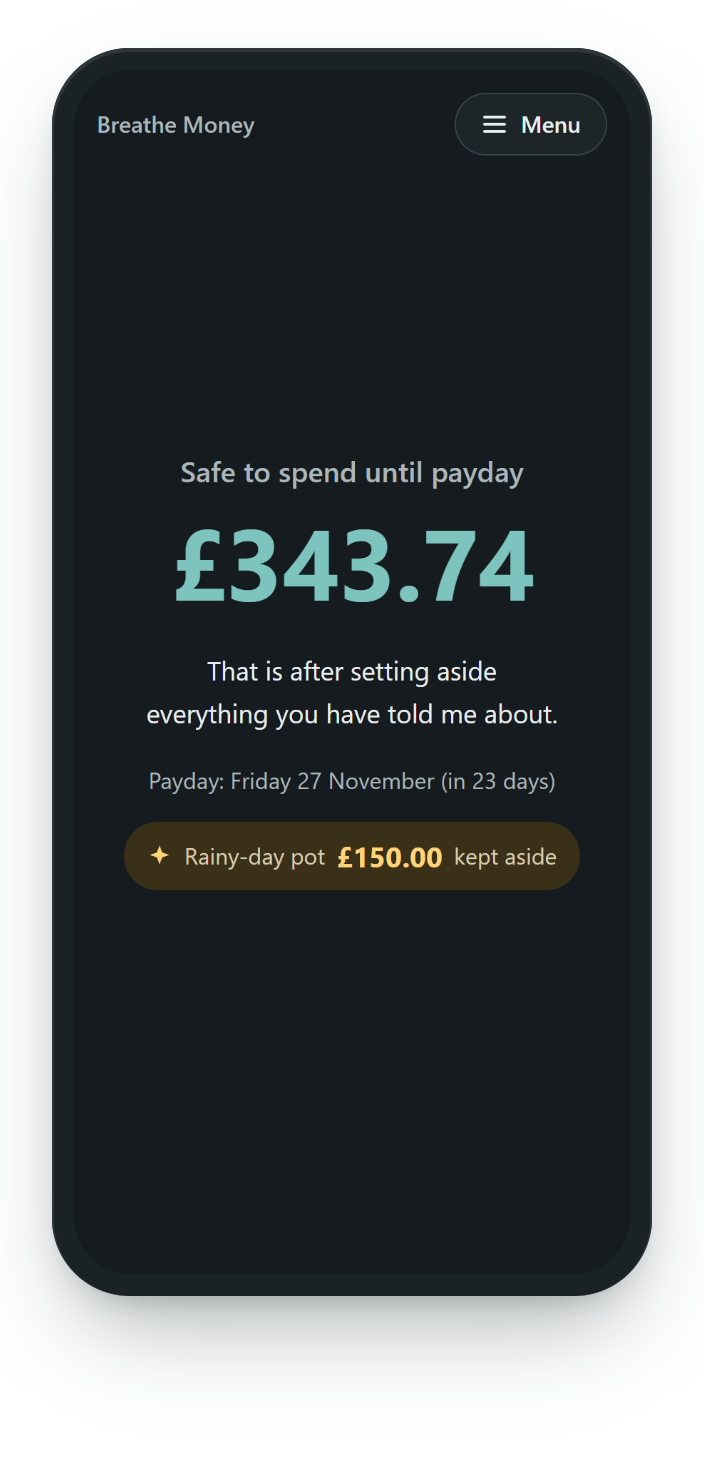
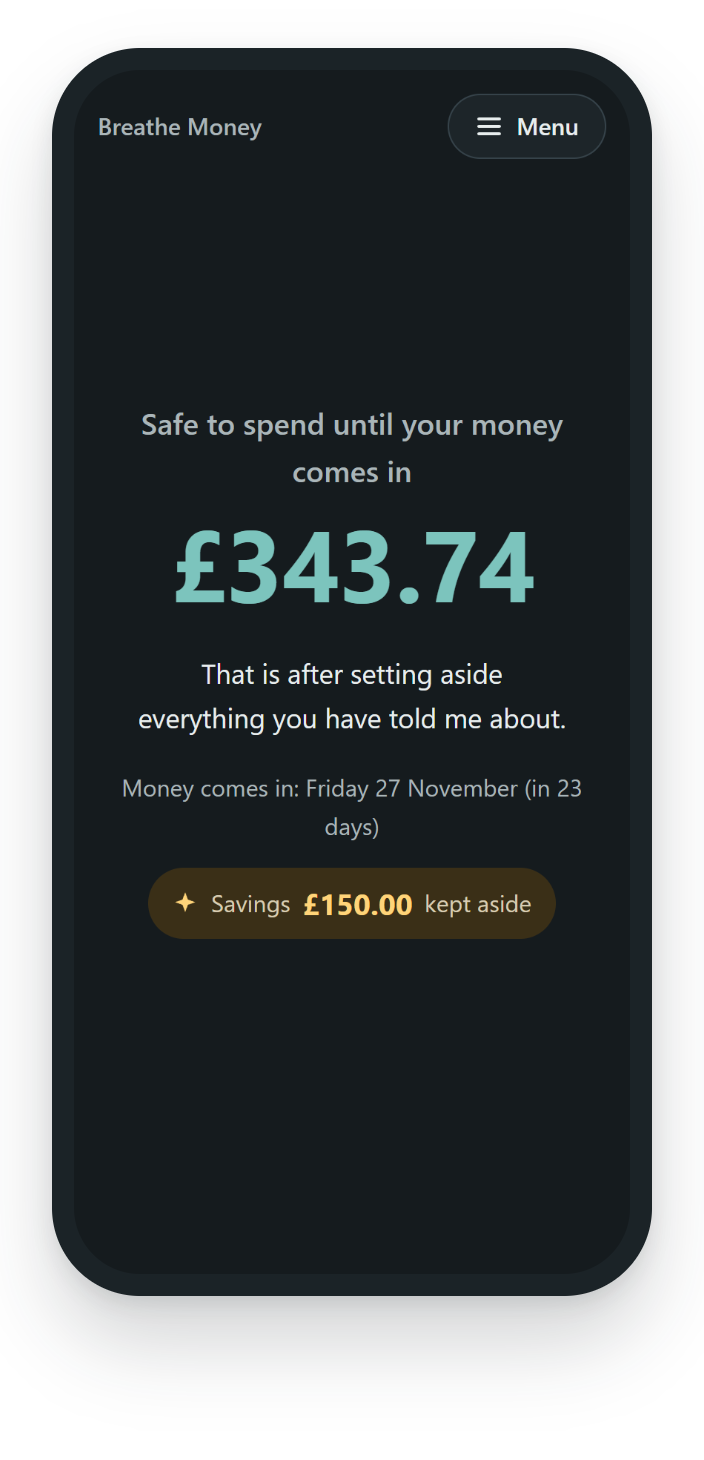
Front page: new screenshots for money coming in and Savings
Retook the banner, the short clip and every screenshot that showed
"payday" or "rainy-day pot", with the same made-up numbers as before.
Picture descriptions updated to match.

diff --git a/README.md b/README.md
@@ -10,7 +10,7 @@
 > **Breathe will never be about making money. It will always be about helping people.**
 
 <p align="center">
-  <img src="docs/images/hero.png" alt="Breathe Money: How much can I spend until payday? One calm number, after your bills, food, travel and a rainy-day pot. Shown on three phones in light, dark and plum colours" width="100%">
+  <img src="docs/images/hero.png" alt="Breathe Money: How much can I spend until my money comes in? One calm number, after your bills, food, travel and savings. Shown on three phones in light, dark and plum colours" width="100%">
 </p>
 
 <p align="center">
@@ -45,9 +45,9 @@ It is a personal project, built by someone who struggles with these things too. 
 
 <table>
   <tr>
-    <td><img src="docs/images/home-light.png" alt="The home screen: Safe to spend until payday, £343.74, with the payday date and a gold rainy-day pot badge of £150.00" width="250"></td>
-    <td><img src="docs/images/menu.png" alt="The Menu: your account, payday, bills, money coming in, food and travel, rainy-day pot and bank holidays, each with a short summary" width="250"></td>
-    <td><img src="docs/images/breakdown.png" alt="Where this number comes from: the account balance, then each bill, food, travel and the rainy-day pot taken off, line by line" width="250"></td>
+    <td><img src="docs/images/home-light.png" alt="The home screen: Safe to spend until your money comes in, £343.74, with the date the money comes in and a gold savings badge of £150.00" width="250"></td>
+    <td><img src="docs/images/menu.png" alt="The Menu: money coming in, your account, bills, food and travel, savings and bank holidays, each with a short summary, then Where this number comes from and Settings" width="250"></td>
+    <td><img src="docs/images/breakdown.png" alt="Where this number comes from: the account balance, then each bill, food, travel and your savings taken off, line by line" width="250"></td>
   </tr>
   <tr>
     <td align="center">Just the number</td>
@@ -65,9 +65,9 @@ It is a personal project, built by someone who struggles with these things too. 
 
 <table>
   <tr>
-    <td><img src="docs/images/welcome.png" alt="The welcome screen: Let's find out how much is safe to spend until payday, with an Add your numbers button" width="250"></td>
-    <td><img src="docs/images/setup-first.png" alt="Setting up, question 1 of 6: What's in your everyday account right now? With Skip this one and Next buttons" width="250"></td>
-    <td><img src="docs/images/bills.png" alt="Bills before payday: four bills, each one short line saying how much and how often, with a total" width="250"></td>
+    <td><img src="docs/images/welcome.png" alt="The welcome screen: Let's find out how much is safe to spend until your money comes in, with an Add your numbers button" width="250"></td>
+    <td><img src="docs/images/setup-first.png" alt="Setting up, question 1 of 5: When does your main money next come in? Like wages, Universal Credit, a pension or PIP. Then any other money coming in before then" width="250"></td>
+    <td><img src="docs/images/bills.png" alt="Bills before your money comes in: four bills, each one short line saying how much and how often, with a total" width="250"></td>
   </tr>
   <tr>
     <td align="center">A calm hello</td>
@@ -85,26 +85,26 @@ It is a personal project, built by someone who struggles with these things too. 
 
 <table>
   <tr>
-    <td><img src="docs/images/home-dark.png" alt="The home screen in dark mode, with a teal number and a gold pot badge" width="250"></td>
-    <td><img src="docs/images/home-plum.png" alt="The home screen with a plum number and a rose pot badge" width="250"></td>
-    <td><img src="docs/images/home-blue-dark.png" alt="The home screen in dark mode with a blue number and a lilac pot badge" width="250"></td>
+    <td><img src="docs/images/home-dark.png" alt="The home screen in dark mode, with a teal number and a gold savings badge" width="250"></td>
+    <td><img src="docs/images/home-plum.png" alt="The home screen with a plum number and a rose savings badge" width="250"></td>
+    <td><img src="docs/images/home-blue-dark.png" alt="The home screen in dark mode with a blue number and a lilac savings badge" width="250"></td>
   </tr>
   <tr>
     <td align="center">Dark mode</td>
     <td align="center">Five app colours</td>
-    <td align="center">Five pot colours</td>
+    <td align="center">Five savings colours</td>
   </tr>
 </table>
 
 - **Light or dark**, or follow your device.
-- Pick an **app colour** and a **rainy-day pot colour**, because what feels calm is different for everyone.
+- Pick an **app colour** and a **savings colour**, because what feels calm is different for everyone.
 - **Hide the extra writing** under your number once you know your way around, so the home screen can be as quiet as you like.
 
 ### Easy to read, private by design
 
 <table>
   <tr>
-    <td><img src="docs/images/settings-access.png" alt="Settings: text size (Standard, Larger, Largest) and contrast (Match my device, or Higher contrast)" width="250"></td>
+    <td><img src="docs/images/settings-access.png" alt="App options: text size (Standard, Larger, Largest) and contrast (Match my device, or Higher contrast)" width="250"></td>
     <td><img src="docs/images/lock.png" alt="The privacy screen: Welcome back, type your PIN to open Breathe Money" width="250"></td>
     <td><img src="docs/images/backup-protected.png" alt="Save a backup file: protected with a passphrase (recommended), with a reminder that a forgotten passphrase can't be recovered" width="250"></td>
   </tr>
